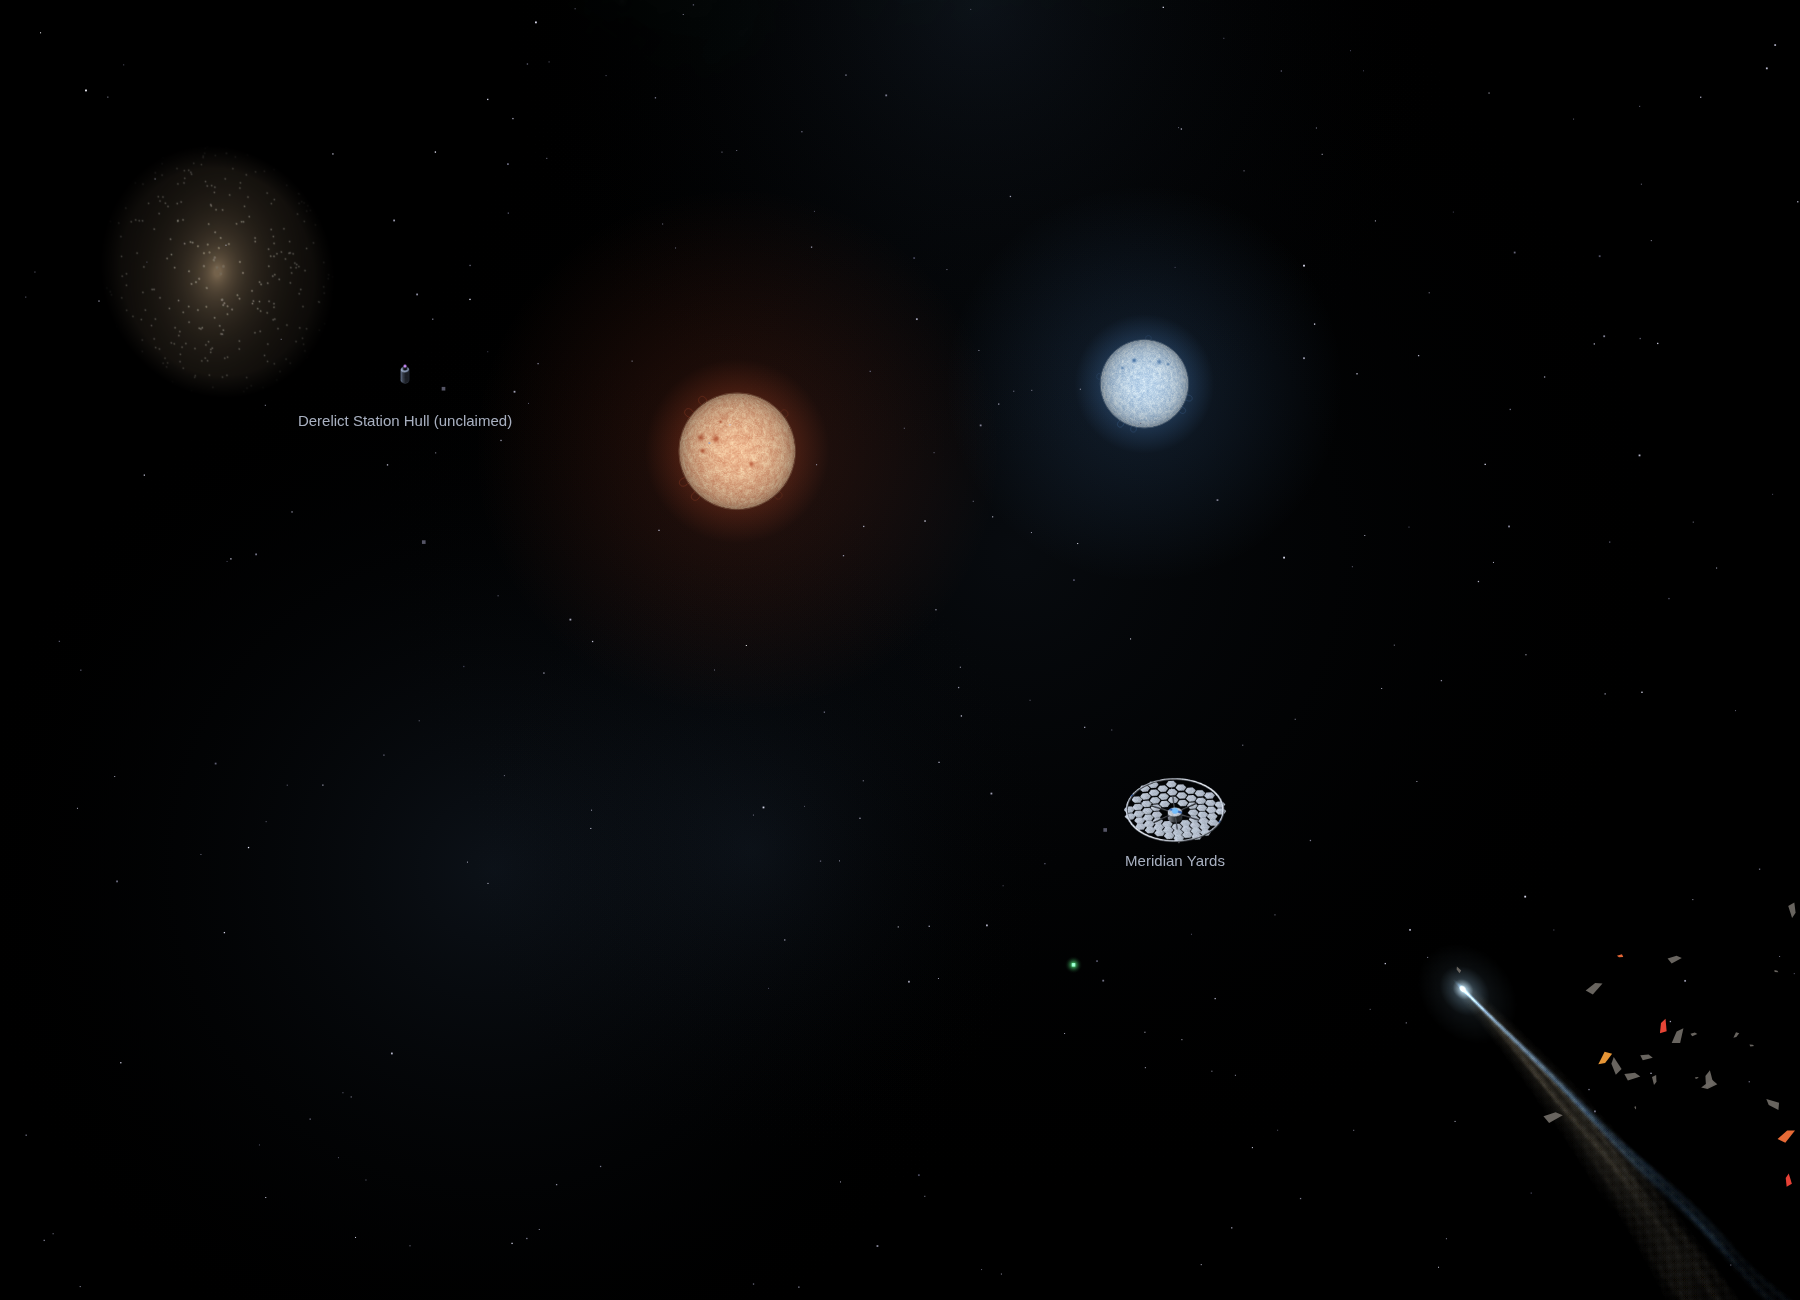
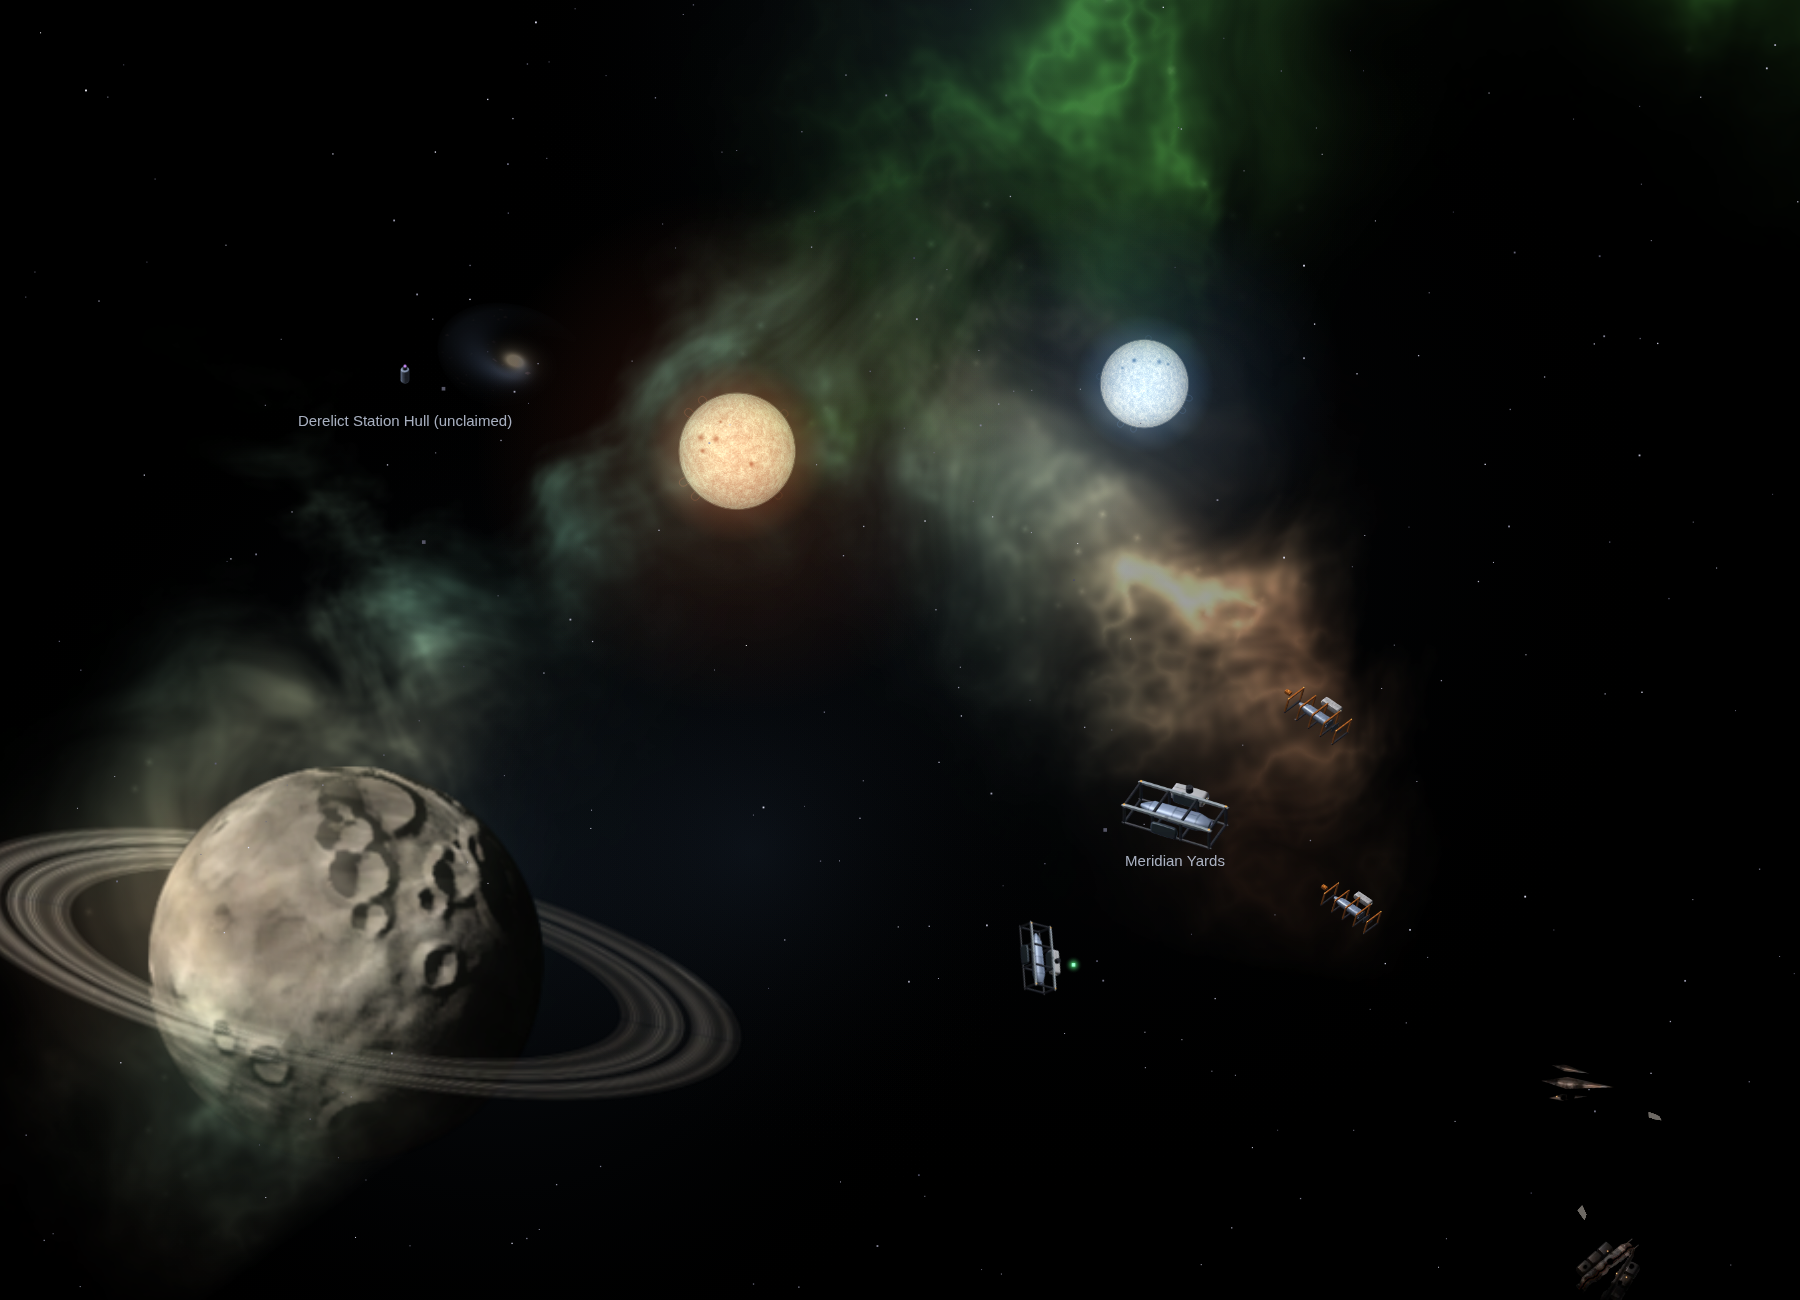
docs: refresh Meridian scenery capture

diff --git a/README.md b/README.md
@@ -81,7 +81,7 @@ When updating, close the old game server window first. Preserve your `data/`, `s
 
 **Meridian system scenery**
 
-The Meridian Yards and its surrounding sky, captured from the game renderer.
+Meridian Yards, nearby ship frames and its binary sky, captured from the game renderer.
 
 ![Meridian Yards under a binary sky](docs/screenshots/system-diversity-meridian.png)
 
